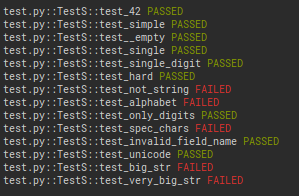
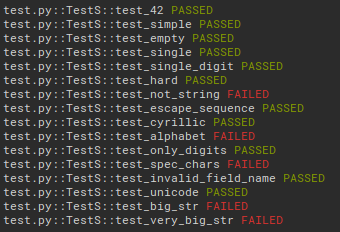
Add files via upload

diff --git a/test.py b/test.py
@@ -1,6 +1,7 @@
 import json
 import asyncio
 import aiohttp
+import configparser
 import pytest
 
 
@@ -8,51 +9,65 @@ async def get_current_test(url, test_name, test):
 	async with aiohttp.ClientSession() as session:
 		try:
 			async with session.post(url, json=test) as res:
-				return {test_name: await res.json()}
+				return {
+					test_name: {
+						"answer": await res.json(),
+						"status_code": res.status
+					}
+				}
 		except aiohttp.ServerDisconnectedError:
-			return {test_name: "Ошибка отключения сервера"}
+			return {
+				test_name: {
+					"answer": 'Ошибка отключения сервера'
+				}
+			}
 
 
 def get_very_big_str():
 	with open('very_big_string.txt', 'r') as file:
 		very_big_str = file.read()
-	return very_big_str
+	return {
+		"test": {
+			"string": very_big_str
+		},
+		"response": {
+			"number": 70392
+		}
+	}
 
 
 def get_big_str():
 	with open('big_string.txt', 'r') as file:
 		big_str = file.read()
-	return big_str
+	return {
+		"test": {
+			"string": big_str
+		},
+		"response": {
+			"number": 6
+		}
+	}
+
+
+def read_config():
+	config = configparser.ConfigParser()
+	config.read('config.ini')
+	return [config['default']['file'], config['default']['url']]
 
 
 class TestS:
-	file = 'tests.json'
+	file, url = read_config()
 	tests = {}
 	answers_dict = {}
-	url = 'http://127.0.0.1:8080/converter'
 
 	def setup_class(self):
 		with open(TestS.file, 'r') as test_file:
 			TestS.tests = json.load(test_file)
-		TestS.tests['big_str'] = {
-			"test": {
-				"string": get_big_str()
-			},
-			"response": {
-				"number": 6
-			}
-		}
-		TestS.tests['very_big_str'] = {
-			"test": {
-				"string": get_very_big_str()
-			},
-			"response": {
-				"number": 70392
-			}
-		}
+		TestS.tests['big_str'] = get_big_str()
+		TestS.tests['very_big_str'] = get_very_big_str()
 		requests_functions = []
-		for test in TestS.tests:
-			requests_functions.append(get_current_test(TestS.url, test, TestS.tests[test]['test']))
+		for test_name in TestS.tests:
+			requests_functions.append(get_current_test(TestS.url, test_name, TestS.tests[test_name]['test']))
 		loop = asyncio.get_event_loop()
 		answers = loop.run_until_complete(asyncio.gather(*requests_functions))
 		for a in answers:
@@ -61,83 +76,111 @@ class TestS:
 	def test_42(self):
 		test_name = '42'
 		test_output = TestS.tests[test_name]['response']
-		output = TestS.answers_dict[test_name]
+		output = TestS.answers_dict[test_name]['answer']
 		assert test_output == output
+		assert TestS.answers_dict[test_name]['status_code'] == 200
 
 	def test_simple(self):
 		test_name = 'simple'
 		test_output = TestS.tests[test_name]['response']
-		output = TestS.answers_dict[test_name]
+		output = TestS.answers_dict[test_name]['answer']
 		assert test_output == output
+		assert TestS.answers_dict[test_name]['status_code'] == 200
 
 	def test_empty(self):
 		test_name = 'empty'
 		test_output = TestS.tests[test_name]['response']
-		output = TestS.answers_dict[test_name]
+		output = TestS.answers_dict[test_name]['answer']
 		assert test_output == output
+		assert TestS.answers_dict[test_name]['status_code'] == 200
 
 	def test_single(self):
 		test_name = 'single'
 		test_output = TestS.tests[test_name]['response']
-		output = TestS.answers_dict[test_name]
+		output = TestS.answers_dict[test_name]['answer']
 		assert test_output == output
+		assert TestS.answers_dict[test_name]['status_code'] == 200
 
 	def test_single_digit(self):
 		test_name = 'single_digit'
 		test_output = TestS.tests[test_name]['response']
-		output = TestS.answers_dict[test_name]
+		output = TestS.answers_dict[test_name]['answer']
 		assert test_output == output
+		assert TestS.answers_dict[test_name]['status_code'] == 200
 
 	def test_hard(self):
 		test_name = 'hard'
 		test_output = TestS.tests[test_name]['response']
-		output = TestS.answers_dict[test_name]
+		output = TestS.answers_dict[test_name]['answer']
 		assert test_output == output
+		assert TestS.answers_dict[test_name]['status_code'] == 200
 
 	def test_not_string(self):
 		test_name = 'not_string'
 		test_output = TestS.tests[test_name]['response']
-		output = TestS.answers_dict[test_name]
+		output = TestS.answers_dict[test_name]['answer']
 		assert test_output == output
+		assert TestS.answers_dict[test_name]['status_code'] == 200
+
+	def test_escape_sequence(self):
+		test_name = 'escape_sequence'
+		test_output = TestS.tests[test_name]['response']
+		output = TestS.answers_dict[test_name]['answer']
+		assert test_output == output
+		assert TestS.answers_dict[test_name]['status_code'] == 200
+
+	def test_cyrillic(self):
+		test_name = 'cyrillic'
+		test_output = TestS.tests[test_name]['response']
+		output = TestS.answers_dict[test_name]['answer']
+		assert test_output == output
+		assert TestS.answers_dict[test_name]['status_code'] == 200
 
 	def test_alphabet(self):
 		test_name = 'alphabet'
 		test_output = TestS.tests[test_name]['response']
-		output = TestS.answers_dict[test_name]
+		output = TestS.answers_dict[test_name]['answer']
 		assert test_output == output
+		assert TestS.answers_dict[test_name]['status_code'] == 200
 
 	def test_only_digits(self):
 		test_name = 'only_digits'
 		test_output = TestS.tests[test_name]['response']
-		output = TestS.answers_dict[test_name]
+		output = TestS.answers_dict[test_name]['answer']
 		assert test_output == output
+		assert TestS.answers_dict[test_name]['status_code'] == 200
 
 	def test_spec_chars(self):
 		test_name = 'spec_chars'
 		test_output = TestS.tests[test_name]['response']
-		output = TestS.answers_dict[test_name]
+		output = TestS.answers_dict[test_name]['answer']
 		assert test_output == output
+		assert TestS.answers_dict[test_name]['status_code'] == 200
 
 	def test_invalid_field_name(self):
 		test_name = 'invalid_field_name'
 		test_output = TestS.tests[test_name]['response']
-		output = TestS.answers_dict[test_name]
+		output = TestS.answers_dict[test_name]['answer']
 		assert test_output == output
+		assert TestS.answers_dict[test_name]['status_code'] == 200
 
 	def test_unicode(self):
 		test_name = 'unicode'
 		test_output = TestS.tests[test_name]['response']
-		output = TestS.answers_dict[test_name]
+		output = TestS.answers_dict[test_name]['answer']
 		assert test_output == output
+		assert TestS.answers_dict[test_name]['status_code'] == 200
 
 	def test_big_str(self):
 		test_name = 'big_str'
 		test_output = TestS.tests[test_name]['response']
-		output = TestS.answers_dict[test_name]
+		output = TestS.answers_dict[test_name]['answer']
 		assert test_output == output
+		assert TestS.answers_dict[test_name]['status_code'] == 200
 
 	def test_very_big_str(self):
 		test_name = 'very_big_str'
 		test_output = TestS.tests[test_name]['response']
-		output = TestS.answers_dict[test_name]
+		output = TestS.answers_dict[test_name]['answer']
 		assert test_output == output
+		assert TestS.answers_dict[test_name]['status_code'] == 200
